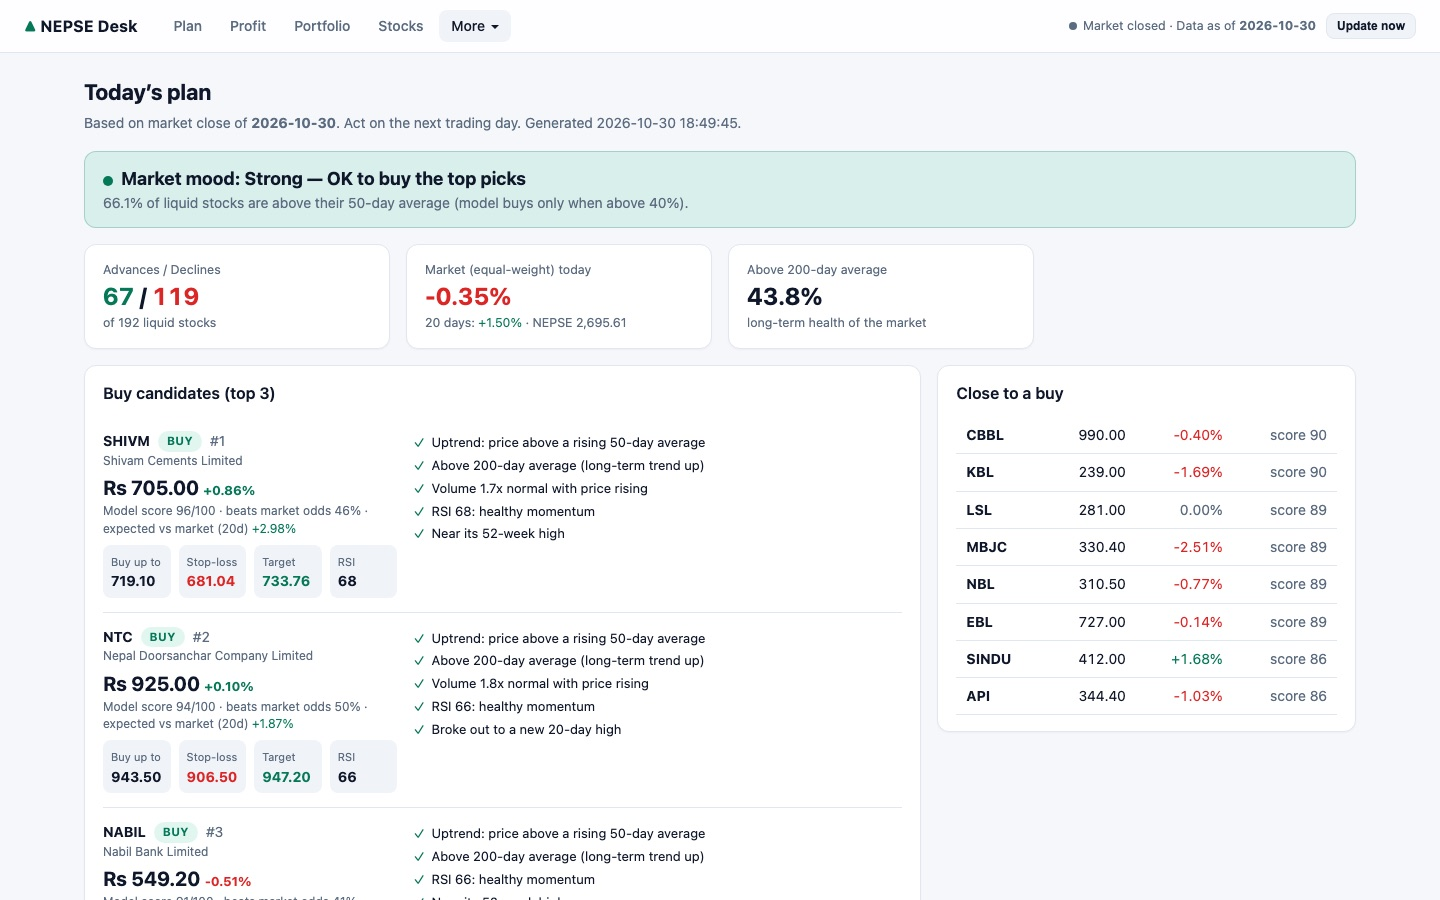
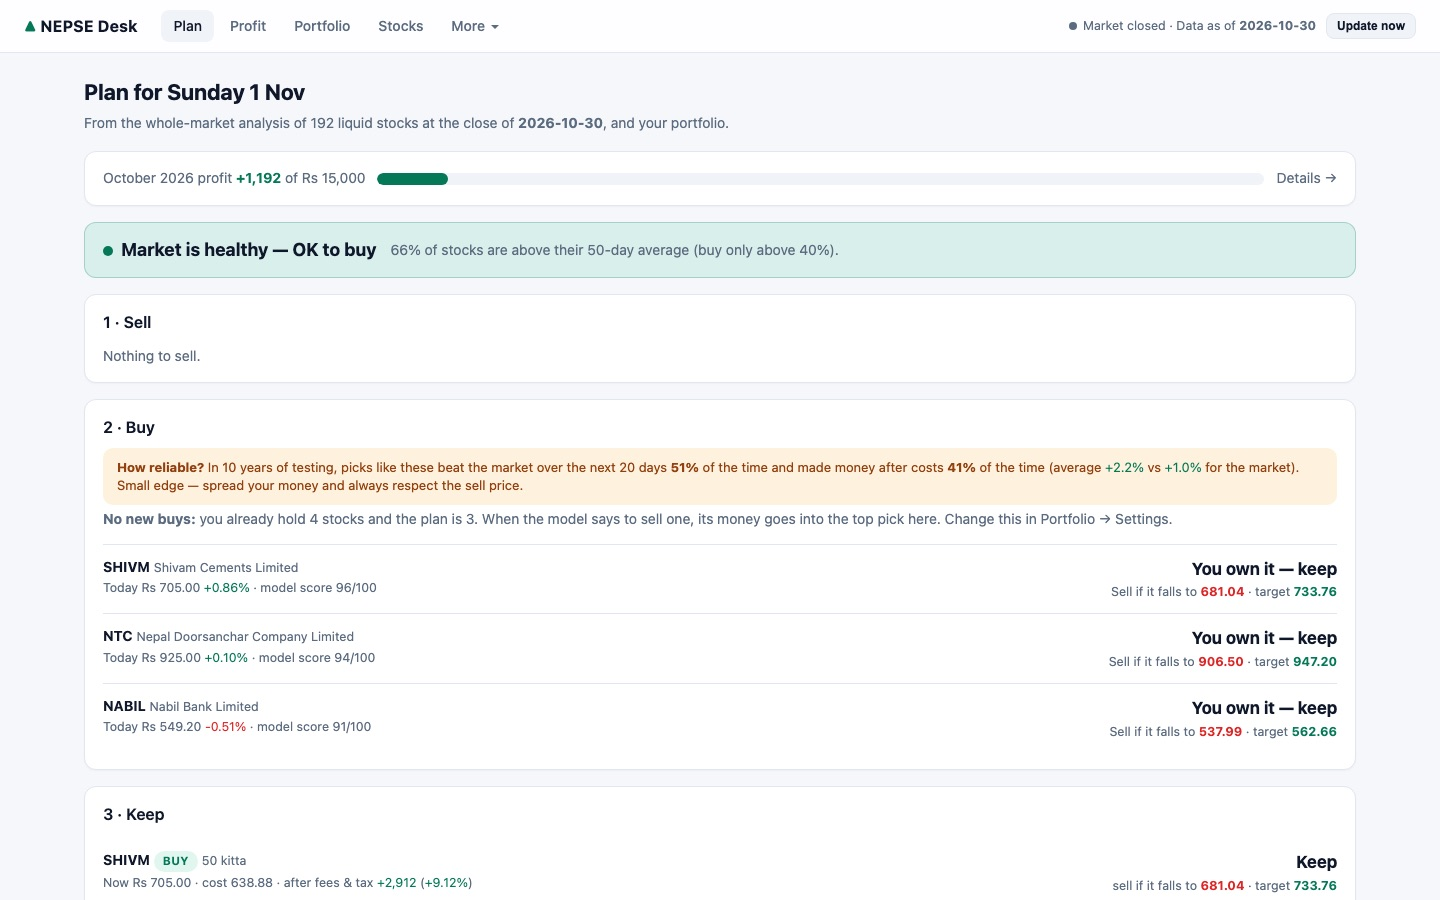
Show app screenshots with demo portfolio data; inline tab styles

diff --git a/docs/index.html b/docs/index.html
@@ -14,8 +14,25 @@
 <link rel="preconnect" href="https://fonts.googleapis.com">
 <link rel="preconnect" href="https://fonts.gstatic.com" crossorigin>
 <link href="https://fonts.googleapis.com/css2?family=Fira+Code:wght@400;500&family=Fira+Sans:wght@400;500;600;700&display=swap" rel="stylesheet">
-<link rel="stylesheet" href="assets/site.css?v=3">
-<script src="assets/theme.js?v=3"></script>
+<link rel="stylesheet" href="assets/site.css?v=4">
+<style>
+/* ---------- app screenshots ---------- */
+.shot-tabs { display: inline-flex; gap: 4px; padding: 4px; background: var(--surface-2); border: 1px solid var(--border); border-radius: 12px; margin-bottom: 16px; max-width: 100%; overflow-x: auto; }
+.shot-tabs button {
+  font: 500 15px var(--sans); color: var(--text-2); background: transparent; border: 0; border-radius: 9px;
+  min-height: 40px; padding: 0 16px; cursor: pointer; white-space: nowrap; transition: background-color .15s, color .15s;
+}
+.shot-tabs button:hover { color: var(--text); }
+.shot-tabs button[aria-selected="true"] { background: var(--surface); color: var(--text); box-shadow: 0 1px 3px rgba(14, 17, 22, 0.08); }
+.frame { margin: 0; border-radius: var(--radius); overflow: hidden; border: 1px solid var(--border); background: var(--surface); box-shadow: 0 2px 4px rgba(14, 17, 22, 0.04), 0 16px 40px rgba(14, 17, 22, 0.10); }
+.frame-bar { display: flex; align-items: center; gap: 6px; height: 36px; padding: 0 14px; background: var(--surface-2); border-bottom: 1px solid var(--border); }
+.frame-bar i { width: 10px; height: 10px; border-radius: 50%; background: var(--axis); }
+.frame-bar span { margin: 0 auto; font: 12px var(--mono); color: var(--muted); background: var(--surface); padding: 3px 14px; border-radius: 6px; }
+.frame img { display: block; width: 100%; height: auto; aspect-ratio: 1440 / 900; }
+.shot-cap { color: var(--text-2); margin: 14px 0 0; max-width: 72ch; }
+.shot-cap strong { color: var(--text); }
+</style>
+<script src="assets/theme.js?v=4"></script>
 </head>
 <body>
 <a class="skip" href="#main">Skip to content</a>
@@ -87,20 +104,22 @@
       <div class="sec-head">
         <div>
           <h2 id="app-h">See the app</h2>
-          <p>What you get when you run it on your own computer. Screenshots are from the real app; personal portfolio details are removed.</p>
+          <p>What you get when you run it on your own computer. Real market data, with a <strong>demo portfolio</strong> filled in to show how tracking works.</p>
         </div>
       </div>
       <div class="shots">
         <div class="shot-tabs" role="tablist" aria-label="App screens">
-          <button role="tab" id="t-plan" aria-selected="true" aria-controls="p-shot" data-i="0">Daily plan</button>
-          <button role="tab" id="t-stocks" aria-selected="false" aria-controls="p-shot" data-i="1" tabindex="-1">All stocks</button>
-          <button role="tab" id="t-stock" aria-selected="false" aria-controls="p-shot" data-i="2" tabindex="-1">Stock detail</button>
+          <button role="tab" id="t-0" aria-selected="true" aria-controls="p-shot">Daily plan</button>
+          <button role="tab" id="t-1" aria-selected="false" aria-controls="p-shot" tabindex="-1">Market today</button>
+          <button role="tab" id="t-2" aria-selected="false" aria-controls="p-shot" tabindex="-1">Portfolio</button>
+          <button role="tab" id="t-3" aria-selected="false" aria-controls="p-shot" tabindex="-1">All stocks</button>
+          <button role="tab" id="t-4" aria-selected="false" aria-controls="p-shot" tabindex="-1">Stock detail</button>
         </div>
-        <figure class="frame" id="p-shot" role="tabpanel" aria-labelledby="t-plan">
+        <figure class="frame" id="p-shot" role="tabpanel" aria-labelledby="t-0">
           <div class="frame-bar" aria-hidden="true"><i></i><i></i><i></i><span>localhost:8050</span></div>
-          <img id="shot-img" src="assets/screens/plan.jpg" width="1440" height="900" alt="Daily plan screen: market mood, top 3 buy candidates with stop-loss and target, and stocks close to a buy signal">
+          <img id="shot-img" src="assets/screens/plan.jpg" width="1440" height="900" alt="">
         </figure>
-        <p class="shot-cap" id="shot-cap"><strong>Daily plan.</strong> After each close: is the market healthy, which 3 stocks to buy, where to set stop-loss and target, and why the model likes each one.</p>
+        <p class="shot-cap" id="shot-cap"></p>
       </div>
     </div>
   </section>
@@ -244,16 +263,20 @@ cd nepse-quant-desk
   </div>
 </footer>
 
-<script src="assets/charts.js?v=3"></script>
+<script src="assets/charts.js?v=4"></script>
 <script>
 // app screenshot tabs
 (() => {
   const shots = [
-    { src: "assets/screens/plan.jpg", alt: "Daily plan screen: market mood, top 3 buy candidates with stop-loss and target, and stocks close to a buy signal",
-      cap: "<strong>Daily plan.</strong> After each close: is the market healthy, which 3 stocks to buy, where to set stop-loss and target, and why the model likes each one." },
+    { src: "assets/screens/plan.jpg", alt: "Daily plan: monthly profit vs target, market health, what to sell, buy and keep",
+      cap: "<strong>Daily plan.</strong> One page for the next trading day: what to sell, what to buy, what to keep, and this month's profit against your target." },
+    { src: "assets/screens/market.jpg", alt: "Market today: market mood, advances and declines, top 3 buy candidates with stop-loss and target",
+      cap: "<strong>Market today.</strong> Is the market healthy? The top 3 picks with buy limit, stop-loss and target, and why the model likes each one." },
+    { src: "assets/screens/portfolio.jpg", alt: "Portfolio: holdings with cost, current value, profit after fees and tax, and the model's view of each",
+      cap: "<strong>Portfolio.</strong> What you own, what it's worth, and the profit you'd actually keep after commission, SEBON fee, DP charge and tax." },
     { src: "assets/screens/stocks.jpg", alt: "All stocks table: every company ranked by model score with signal, price, 1D to 1Y change, RSI and sector",
       cap: "<strong>All stocks.</strong> Every company ranked by the model, with its signal, returns from 1 day to 1 year, RSI and trend. Search, filter and sort." },
-    { src: "assets/screens/stock.jpg", alt: "Stock detail for NABIL: candlestick chart with target and stop lines, RSI, model score and reasons for the signal",
+    { src: "assets/screens/stock.jpg", alt: "Stock detail: candlestick chart with target and stop lines, RSI, model score and reasons for the signal",
       cap: "<strong>Stock detail.</strong> Interactive chart with target and stop lines, RSI, a trade plan, and plain-language reasons behind the signal." },
   ];
   const tabs = [...document.querySelectorAll(".shot-tabs [role=tab]")];
@@ -265,6 +288,7 @@ cd nepse-quant-desk
     panel.setAttribute("aria-labelledby", tabs[i].id);
     if (focus) tabs[i].focus();
   };
+  select(0);
   tabs.forEach((t, i) => {
     t.addEventListener("click", () => select(i));
     t.addEventListener("keydown", (e) => {

diff --git a/docs/assets/site.css b/docs/assets/site.css
@@ -181,22 +181,6 @@ td.pos { color: var(--good); }
 .callout svg { flex: none; color: var(--s2); margin-top: 2px; }
 .callout strong { color: var(--text); }
 
-/* ---------- app screenshots ---------- */
-.shot-tabs { display: inline-flex; gap: 4px; padding: 4px; background: var(--surface-2); border: 1px solid var(--border); border-radius: 12px; margin-bottom: 16px; max-width: 100%; overflow-x: auto; }
-.shot-tabs button {
-  font: 500 15px var(--sans); color: var(--text-2); background: transparent; border: 0; border-radius: 9px;
-  min-height: 40px; padding: 0 16px; cursor: pointer; white-space: nowrap; transition: background-color .15s, color .15s;
-}
-.shot-tabs button:hover { color: var(--text); }
-.shot-tabs button[aria-selected="true"] { background: var(--surface); color: var(--text); box-shadow: 0 1px 3px rgba(14, 17, 22, 0.08); }
-.frame { margin: 0; border-radius: var(--radius); overflow: hidden; border: 1px solid var(--border); background: var(--surface); box-shadow: 0 2px 4px rgba(14, 17, 22, 0.04), 0 16px 40px rgba(14, 17, 22, 0.10); }
-.frame-bar { display: flex; align-items: center; gap: 6px; height: 36px; padding: 0 14px; background: var(--surface-2); border-bottom: 1px solid var(--border); }
-.frame-bar i { width: 10px; height: 10px; border-radius: 50%; background: var(--axis); }
-.frame-bar span { margin: 0 auto; font: 12px var(--mono); color: var(--muted); background: var(--surface); padding: 3px 14px; border-radius: 6px; }
-.frame img { display: block; width: 100%; height: auto; aspect-ratio: 1440 / 900; }
-.shot-cap { color: var(--text-2); margin: 14px 0 0; max-width: 72ch; }
-.shot-cap strong { color: var(--text); }
-
 /* ---------- footer ---------- */
 footer { margin-top: 72px; border-top: 1px solid var(--border); padding: 32px 0 48px; color: var(--muted); font-size: 14px; }
 footer .wrap { display: flex; flex-wrap: wrap; gap: 12px 24px; justify-content: space-between; }

diff --git a/docs/research.html b/docs/research.html
@@ -13,8 +13,8 @@
 <link rel="preconnect" href="https://fonts.googleapis.com">
 <link rel="preconnect" href="https://fonts.gstatic.com" crossorigin>
 <link href="https://fonts.googleapis.com/css2?family=Fira+Code:wght@400;500&family=Fira+Sans:wght@400;500;600;700&display=swap" rel="stylesheet">
-<link rel="stylesheet" href="assets/site.css?v=3">
-<script src="assets/theme.js?v=3"></script>
+<link rel="stylesheet" href="assets/site.css?v=4">
+<script src="assets/theme.js?v=4"></script>
 </head>
 <body>
 <a class="skip" href="#main">Skip to content</a>
